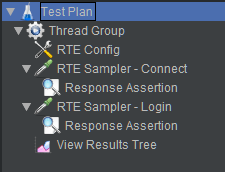
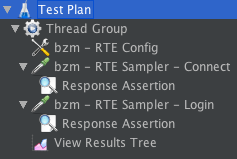
Include blazemeter prefix in sampler and config labels to follow blazemeter plugins convention

diff --git a/src/main/java/com/blazemeter/jmeter/rte/sampler/gui/RTESamplerGui.java b/src/main/java/com/blazemeter/jmeter/rte/sampler/gui/RTESamplerGui.java
@@ -30,7 +30,7 @@ public class RTESamplerGui extends AbstractSamplerGui {
 
   @Override
   public String getStaticLabel() {
-    return "RTE Sampler";
+    return "bzm - RTE Sampler";
   }
 
   @Override

diff --git a/src/main/java/com/blazemeter/jmeter/rte/sampler/gui/RTEConfigGui.java b/src/main/java/com/blazemeter/jmeter/rte/sampler/gui/RTEConfigGui.java
@@ -31,7 +31,7 @@ public class RTEConfigGui extends AbstractConfigGui {
 
   @Override
   public String getStaticLabel() {
-    return "RTE Config";
+    return "bzm - RTE Config";
   }
 
   @Override
